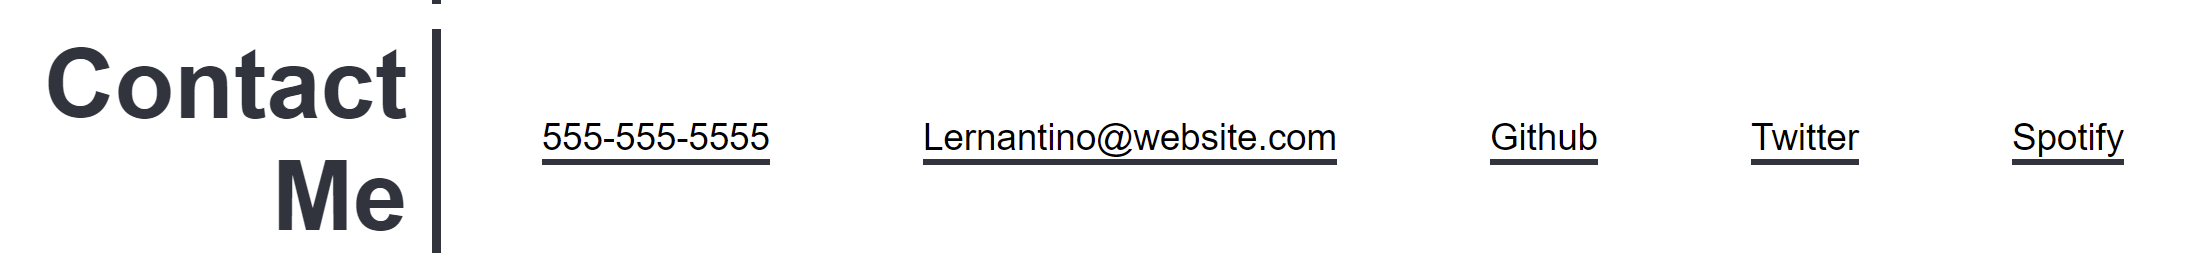
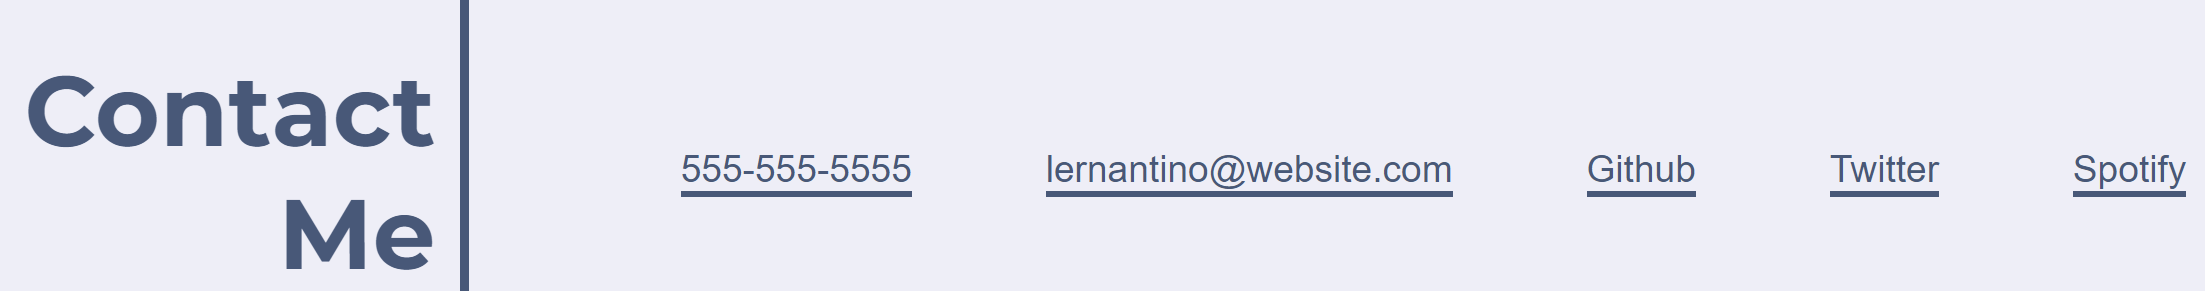
Added newer screenshots for readME. Changed page colors to be more accurate to the provided screenshot. Still trying to fix anchors due to fix navbar.

Changed region(s): [[0.2469, 0.4528, 1.0, 0.6943], [0.0, 0.0, 0.2161, 1.0]]

diff --git a/index.html b/index.html
@@ -18,14 +18,14 @@
 
 <body>
     <!-- This div exists simply as an anchor link to the top of the page. -->
-    <div id="top"></div>
+    <a id="top"></a>
     <!-- Navbar Begin -->
     <nav id="navbar">
         <a href="#top">
             <h1>Lernantino</h1>
         </a>
         <ul id="navLinks">
-            <a href="#aboutMe">
+            <a href="#aboutMeAnchor">
                 <li class="navItems">About Me</li>
             </a>
             <a href="#work">
@@ -44,7 +44,8 @@
     <!-- Banner Begin -->
     <section id="banner">
         <article id="bannerQuote">
-            <h2>Cool subtitle here!</h2>
+            <h2 >Cool subtitle here!</h2>
+            <a id="aboutMeAnchor"></a>
         </article>
 
     </section>
@@ -52,7 +53,8 @@
 
     <!-- Main Content Begin -->
     <main>
-        <section class="mainContent">
+        
+        <section  class="mainContent">
             <aside class="asideBox">
                 <h1 class="asideHeader">About<br></h1>
                 <h1 class="asideHeader">Me</h1>
@@ -65,7 +67,7 @@
                     id ipsa
                     magni impedit maxime, ab tempore. Quod nulla odio veniam consequuntur itaque beatae quae similique
                     suscipit?</p>
-                <br>
+                
                 <p>Lorem ipsum dolor sit, amet consectetur adipisicing elit. Labore, quam. Porro minima sint id ipsa
                     magni impedit maxime, ab tempore. Quod nulla odio veniam consequuntur itaque beatae quae similique
                     suscipit?Lorem ipsum dolor sit, amet consectetur adipisicing elit. Labore, quam. Porro minima sint

diff --git a/assets/style.css b/assets/style.css
@@ -2,10 +2,12 @@
  this is simply to allow the child element to be absolute. Mostly for image labels. */
 
 :root {
-    --mainBGColor: #ededf6;
-    --alternateBGColor: #92cccd;
-    --mainTextColor: #31343d;
-    --navbarColor: #31343d;
+    --mainBGColor: #eeeef7;
+    --alternateBGColor: #92ccce;
+    --navbarColor: #31353d;
+    
+    --mainTextColor: #445877;
+
     --mainFontStyle: 'Montserrat', sans-serif;
     --altFontStyle: sans-serif;
 }
@@ -21,9 +23,10 @@ font-family: 'Montserrat', sans-serif;
 body {
     background-color: var(--mainBGColor);
     background-image: var(--backgroundLinearGradient);
-    color: var(--navbarColor);
+    color: var(--mainTextColor);
     padding: 0;
     margin: 0;
+    margin-top: 6vw;
 }
 
 h2 {
@@ -34,6 +37,7 @@ h2 {
 
 p {
     font-size: 1.25vw;
+    margin-bottom: 0;
 }
 
 /* Navbar Styling */
@@ -74,10 +78,12 @@ a {
 .navItems {
     font-size: 1.5vw;
     margin-right: 15px;
+    padding-left: 1vw;
+    padding-right: 1vw;;
     text-decoration: none;
     color: var(--alternateBGColor);
     white-space: nowrap;
-    border-bottom: .5vw solid teal;
+    border-bottom: .25vw solid teal;
 }
 
 /* Banner Styling */
@@ -141,7 +147,7 @@ main {
 .asideHeader {
     padding-right: 1vw;
     font-size: 4vw;
-    color: var(--navbarColor);
+    color: var(--mainTextColor);
     line-height: 1vw;
 }
 

diff --git a/README.md b/README.md
@@ -1,5 +1,5 @@
 # module-2-challenge
-## View this project hosted by/on GitHub Pages: [https://dusticcus.github.io/module-2-challenge/](https://dusticcus.github.io/module-2-challenge/ "Hosted Website")
+## View this project hosted by/on GitHub Pages: [Module 2 Challenge Website](https://dusticcus.github.io/module-2-challenge/ "Hosted Website")
 
 
 
@@ -17,16 +17,16 @@ The website built is a generic work portfolio for showcasing information about a
 - CSS
 
 ### Website Sections and general information:
-1. Navigation:
+1. Navigation: Use the links in the red highlight box to move around the page sections.
 ![Navbar](./assets/images/readmeImages/navbar.png)
 
 2. Sections:
 
-    1. About Me:
+    1. About Me: Write something about yourself.
     ![About Me](./assets/images/readmeImages/aboutMe.png "about me")
 
-    2. Work:
+    2. Work: Add Images and links to your work.
     ![Showcase your completed projects as images and links to them.](./assets/images/readmeImages/work.png "work images")
 
-    3. Contact:
+    3. Contact: Add your contact info.
     ![Provide your contact details for email, social media, and/or phone number.](./assets/images/readmeImages/contactMe.png)
